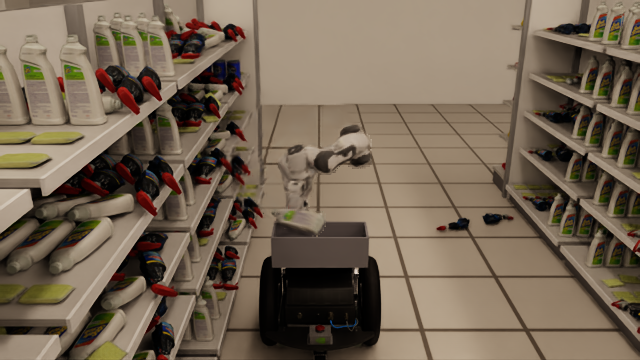
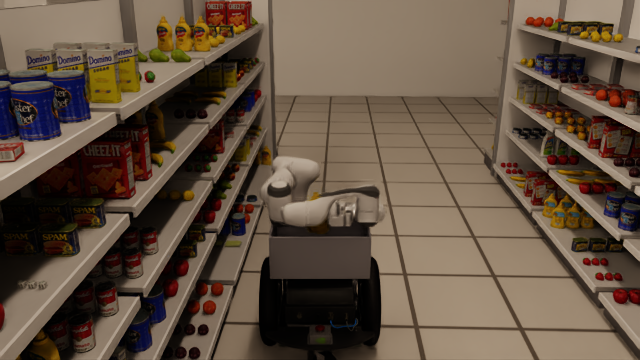
팔 파지 완성: 주행 포함 시도 3/3 성공, 검증 15항목, README·LOG (7)
- 주행 포함 seed 7 ORD_04: 76.5 m, 정차 4곳, 시도한 파지 3/3 바구니 투입, 넘어진 상품 1 은 not_graspable_now
- verify_drive: 순간이동 모드 구분, 파지 정상 종료·성공률·손끝 도달·카레 유지 항목
- README: 팔 섹션 + 헤드라인 GIF 교체, LOG (7) 파지가 되기까지 잡은 것 9가지

Claude-Session: https://claude.ai/code/session_011ZrkTYrTQ9K43aGFDEz2gj

diff --git a/tools/verify_drive.py b/tools/verify_drive.py
@@ -35,7 +35,8 @@ def main() -> int:
     c = Check()
     print(f"\n{args.json}  ({d['order']}, {d['robot']})\n")
 
-    c.true("끝까지 주행함 (스텝 한도 안)", d["completed"], f"시뮬 {d['sim_time_s']} s, 벽시계 {d['wall_time_s']} s")
+    tele = d.get("teleport", False)      # 순간이동 모드(파지 실험)는 주행 항목을 건너뛴다
+    c.true("끝까지 주행함 (스텝 한도 안)", d["completed"], f"시뮬 {d['sim_time_s']} s, 벽시계 {d['wall_time_s']} s" + (" (순간이동)" if tele else ""))
     c.eq("정차 수 = 주문 품목 수", len(d["picks"]), len(order["lines"]), tol=0)
     worst_pos = max((p["pos_err_m"] for p in d["picks"]), default=0)
     worst_yaw = max((abs(p["yaw_err_deg"]) for p in d["picks"]), default=0)
@@ -44,17 +45,21 @@ def main() -> int:
     c.true("정차가 주문 품목과 1:1", sorted(p["line"] for p in d["picks"]) == list(range(len(order["lines"]))), "")
     c.true("충돌 프레임 0", d["collision_frames"] == 0, f"{d['collision_frames']}프레임")
     c.true("최소 간격 ≥ 0 (장애물 안에 들어간 적 없음)", d["min_clearance_m"] >= 0, f"{d['min_clearance_m'] * 100:.1f} cm @ {d['min_clearance_at']}")
-    ratio = d["driven_length_m"] / d["planned_length_m"]
-    c.true("주행 거리 / 계획 거리 0.95~1.25", 0.95 <= ratio <= 1.25, f"{d['driven_length_m']} / {d['planned_length_m']} = {ratio:.3f}")
-    c.true(f"도크 복귀 오차 ≤ {POS_TOL * 100:.0f} cm", d["dock_return_err_m"] <= POS_TOL, f"{d['dock_return_err_m'] * 100:.1f} cm")
+    if not tele:
+        ratio = d["driven_length_m"] / d["planned_length_m"]
+        c.true("주행 거리 / 계획 거리 0.95~1.25", 0.95 <= ratio <= 1.25, f"{d['driven_length_m']} / {d['planned_length_m']} = {ratio:.3f}")
+        c.true(f"도크 복귀 오차 ≤ {POS_TOL * 100:.0f} cm", d["dock_return_err_m"] <= POS_TOL, f"{d['dock_return_err_m'] * 100:.1f} cm")
     if d.get("arm"):
         gs = [p.get("grasp", {}) for p in d["picks"]]
-        c.true("모든 정차에서 파지 시도가 끝까지 감 (phase done)", all(g.get("phase") == "done" for g in gs),
-               ", ".join(g.get("phase", "?") for g in gs))
-        n_ok = sum(1 for g in gs if g.get("success"))
-        c.true("파지 성공 ≥ 절반", n_ok * 2 >= len(gs), f"{n_ok}/{len(gs)}  (들림 {sum(1 for g in gs if g.get('lifted'))}, 바구니 {sum(1 for g in gs if g.get('in_bin'))})")
-        ik = max((g.get("ik_err_max_m", 0) or 0) for g in gs)
-        c.true("IK 위치 오차 ≤ 1 cm", ik <= 0.01, f"최대 {ik * 1000:.1f} mm")
+        # 끝까지 갔거나(done), 현재 자세로는 못 집는다고 스스로 판단한 것(not_graspable_now)만 정상 종료
+        c.true("모든 정차에서 파지 시도가 정상 종료 (done / not_graspable_now)",
+               all(g.get("phase") in ("done", "not_graspable_now") for g in gs), ", ".join(g.get("phase", "?") for g in gs))
+        tried = [g for g in gs if g.get("phase") == "done"]
+        n_ok = sum(1 for g in tried if g.get("success"))
+        c.true("시도한 파지 중 성공 ≥ 절반", n_ok * 2 >= len(tried), f"{n_ok}/{len(tried)} (미시도 {len(gs) - len(tried)}: 넘어짐 등)  들림 {sum(1 for g in tried if g.get('lifted'))}, 바구니 {sum(1 for g in tried if g.get('in_bin'))}")
+        reach = max((max(g.get("pre_err_m", 0) or 0, g.get("grasp_err_m", 0) or 0) for g in tried), default=0)
+        c.true("손끝이 프리그래스프·파지점에 도달 (오차 ≤ 1 cm)", reach <= 0.01, f"최대 {reach * 1000:.1f} mm")
+        c.true("잡은 상품을 카레 내내 놓치지 않음", all(g.get("held_through_carry", True) for g in tried if g.get("in_bin")), "")
         dist = sum(g.get("disturbed_neighbors", 0) for g in gs)
         c.true("이웃 상품 교란(> 2 cm) 없음", dist == 0, f"{dist}개")
     lx, ly = STORE.footprint(SHELF)

diff --git a/tools/drive_isaac.py b/tools/drive_isaac.py
@@ -396,6 +396,7 @@ result = {
     "dock_return_err_m": round(math.hypot(x - dock["x"], y - dock["y"]), 4),
     "min_clearance_m": round(min_clear, 4), "min_clearance_at": min_clear_at, "collision_frames": collide_frames,
     "arm": bool(arm),
+    "teleport": bool(args.teleport),
     "grasp_success": sum(1 for p in picks if p.get("grasp", {}).get("success")) if arm else None,
     "picks": picks,
     "trace": trace,

diff --git a/docs/LOG.md b/docs/LOG.md
@@ -5,6 +5,50 @@
 
 ---
 
+## 2026-09-03 (7) — Carter 위에 Franka: 정차 자세에서 집어 바구니에 넣기
+
+**한 일**
+- `tools/reach_study.py` — 어깨 높이 × 도달 반경 → 닿는 맨 앞 상품 비율 (docs/img/reach_study.png). 결정 근거
+- `RobotSpec` 에 팔: Franka Panda, Carter 상판(0.677 m) 위, 어깨 1.01 m, 도달 0.855, 그리퍼 벌림 8 cm, 손 몸통 여유
+- `scene/scenario.py` — 정차 자세를 팔 베이스 위치 기준으로. 주문은 도달 가능 **그리고** 그리퍼에 들어가는(폭 ≤ 7 cm, 높이 ≥ 7 cm) 상품만. 넘어짐은 서 있는 상품만
+- `tools/arm_isaac.py` — 팔 모듈. Franka 를 별도 관절체로 두고 매 스텝 Carter 자세로 베이스를 옮긴다(기구학적으로 태움). 바구니(상판 뒤 0.30 × 0.44 × 0.20). Lula IK. 시퀀스: tuck → 프리그래스프 → 접근 → 닫기 → 4 cm 들기 → 빼기 → 위로 → 바구니 위(수평 유지) → 내리기 → 두 단계 놓기 → tuck. 단계마다 도달 오차·손가락 간격·손끝↔상품 거리를 기록
+- `tools/drive_isaac.py --arm` (주행 + 파지), `--teleport` (주행 생략, 정차 자세로 순간이동 — 파지 실험 1.5 분/4회), 클로즈업 카메라, 단계별 프레임
+- `tools/verify_drive.py` 파지 항목: 정상 종료, 시도한 파지 성공 ≥ 절반, 손끝 도달 ≤ 1 cm, 카레 내내 유지, 이웃 교란 없음
+- 순간이동 모드 seed 7 ORD_04: **3/4 성공**(머스터드 병·설탕 상자·스팸 캔 → 바구니), 나머지 1 은 물리 시작 때 넘어진 세정제를 "지금 자세로는 못 집음"으로 판정. 실제 주행 포함(76.5 m): 시도한 파지 3/3 성공, 정차 오차 ≤ 3.7 cm, 충돌 0, verify_drive 15항목 통과. 벽시계 391 s (시뮬 249 s, 렌더 포함)
+
+**결정과 이유**
+- **Franka.** UR5e 는 그리퍼가 없고, Franka 는 핸드가 붙어 있고 Lula IK 설정이 Isaac 에 들어 있다. UR10e+2F-85 는 도달 1.3 m 로 100 % 닿지만 33 kg 을 Carter 에 얹는 건 비현실적
+- **Carter 상판에 바로 얹는다 → 어깨 1.01 m.** 스터디 최적(0.85 m, 90 %)보다 높아 바닥 데크(0단) 상품은 못 닿는다(도달 77 %). 리프트를 넣는 대신 그 수치를 통계로 남긴다
+- **팔은 별도 관절체를 기구학적으로 태운다.** 한 관절체로 합치려면 에셋 두 개의 루트·고정 조인트를 손봐야 하고, 정차 중엔 베이스가 서 있으므로 고정 베이스 팔과 같다. 주행 중 상품은 그리퍼가 아니라 바구니에 있다. 팔↔Carter 충돌은 필터로 끈다 — 물리 결합이 없는데 접촉만 생기면 본체가 밀린다 (처음에 바구니 벽과 베이스가 겹쳐 0.15 m/s 로 흘러갔다)
+- **손가락은 통로 방향으로 닫힌다.** 맨 앞 상품 뒤에는 다음 상품이 1 cm 뒤에 붙어 있어 깊이 방향으로는 손가락이 들어갈 자리가 없다. 그래서 통로 방향 폭 ≤ 7 cm 인 상품만 주문에 들어온다 (맨 앞 상품의 43 %). 나머지는 흡착이나 위에서 집기가 필요하다
+- **파지점은 계획(JSON)이 아니라 지금 상품 자세로 다시 잡는다.** 물리가 시작되면 넘어지는 상품이 있다(볼록껍질 밑면이 울퉁불퉁). 실제 로봇은 카메라로 본다. 폭·높이가 규칙 밖이면 `not_graspable_now` 로 기록하고 넘어간다 — 실패가 아니라 "인식이 다른 파지를 골라야 할 자리"
+- **순간이동 실험 모드.** 주행까지 넣으면 한 번에 6~8 분. 정차 자세로 바로 옮겨 놓으면 1.5 분에 4회. 파지 물리를 잡는 데 15번쯤 돌렸다
+
+**파지가 되기까지 잡은 것 (순서대로)**
+1. Franka 가 원점(0,0)에 생성되는데 그 자리가 벽 안이라 관절이 폭주하고, 위치만 리셋되어 속도가 남아 5번 관절이 계속 돌았다 → 도크 마운트 자세로 생성, 속도 0
+2. 에셋의 `panda_finger_joint2` 에는 드라이브가 없고 joint1 은 최대 7 N → 양쪽 위치 드라이브 70 N(실제 사양), 패드 고무 마찰
+3. tuck → 프리그래스프를 관절 보간하면 중간에 선반 판을 친다 → 직교 좌표 직선 + 손 방향 slerp (경로가 전부 본체 위 공간). 높은 단에서 직선이 안 풀리면 tuck 으로 접었다 관절 보간
+4. 바구니로 옮길 때 관절 보간·매 스텝 IK 둘 다 팔꿈치 반전 해로 튀어 팔이 못 따라오고 상품을 통로 바닥에 떨궜다 → 위로(위치만 IK) → 바구니 위(직선 + slerp, 3 s) → 내리기. 실패 시 미리 풀어 둔 바구니 위 관절 자세로
+5. 손끝이 1.5 cm 처져 6 mm 여유의 파지를 놓쳤다 → 관절 드라이브 강성 ×4 (0.3 mm)
+6. **손가락 질량 14 g vs 상품 0.4 kg.** 잡고 들고 옮기는 동안 병·캔이 빠졌다. 마찰·솔버 반복·속도는 효과가 작고, 손가락 링크를 50 g 으로 올리니 미끄러짐 2.3 cm → 0.2 cm. 헛잡았을 때 손가락끼리 겹쳐 폭주하는 부작용은 닫힘 목표를 5 mm 로 두어 막았다
+7. **손을 아래로 돌리며 옮기면 둥근 캔이 빠진다** (손가락 간격 5.5 → 1.0 cm). 수평을 유지한 채 옮기면 캔·병·상자 모두 유지
+8. 70 N 으로 눌린 캔을 한 번에 놓으면 튕겨 나간다 → 두 단계로 벌린다. 15 cm 바구니 벽은 병이 넘어가 20 cm 로
+9. 스펀지·바나나·포크: 납작한 것은 옆에서 못 집는다(손 몸통이 선반에 닿음). 그리고 납작한 것을 "넘어짐"으로 세우면 모서리로 서는 불안정 자세라 물리 시작과 함께 쓰러진다 → 둘 다 생성기에서 뺐다
+
+**Isaac 에서 배운 것**
+- `ComputeLocalBound` 는 프림 자체 xform 을 포함한다. 현재 자세로 AABB 를 다시 잡으려면 `ComputeUntransformedBound` 의 꼭짓점을 돌린다
+- Replicator annotator 는 직전 프레임을 돌려준다. 카메라를 옮긴 프레임을 찍으려면 `app.update()` 를 한 번 더
+- 실험적 `Articulation.set_link_masses(…, link_indices=)` 로 링크 질량을 바꿀 수 있다. USD MassAPI 를 손대는 것보다 안전
+- PhysX 씬은 `SimulationManager.setup_simulation` 이 만든다. 반복 횟수는 그 뒤 `PhysxSceneAPI` 로
+
+**남은 것**
+- 실제 주행 포함 성공률을 여러 주문·seed 로 (지금은 한 주문)
+- 0단(바닥 데크) 도달: 리프트 또는 낮은 마운트. 폭 > 7 cm 상품: 흡착. 납작한 상품: 위에서 집기
+- 인식: 지금은 시뮬 참값(현재 AABB). 카메라 → 검출 → 파지점
+- 로컬라이제이션 (주행 위치도 참값)
+
+---
+
 ## 2026-09-03 (6) — Isaac Sim 에서 AMR 주행
 
 **한 일**
